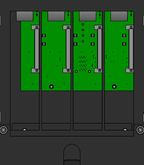
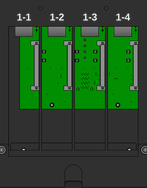
feat(disks): new X4 chassis art with baked-in bay labels
Replace the X4 chassis image with updated artwork showing the drive
backplanes. Scaled to 147x188 so each bay opening is exactly 30x118 --
the size of the shared disk sprites -- keeping everything 1:1 so the
drive art is never interpolated.

Bay labels are baked into the artwork rather than drawn at runtime,
matching HL4/HL8/HL15 and the rest of the plugin. Removes the p5.text
block and its geometry constants.

diff --git a/45drives-disks/src/components/P5HomeLabX4.vue b/45drives-disks/src/components/P5HomeLabX4.vue
@@ -92,26 +92,14 @@
     },
     loadingFlag: true,
   };
- 
-  // Chassis art is 144x165 so that one drive bay is exactly the width of the
-  // shared 30x120 caddy sprites, matching every other chassis sketch. Disks are
-  // drawn 1:1 and the canvas is displayed 1:1, so nothing is ever interpolated.
-  // Raising DISPLAY_SCALE makes the unit bigger but the browser then upscales
-  // the caddy sprites, which makes the drives look blurry.
+
   const DISPLAY_SCALE = 1;
 
-  // Bay label geometry. Labels sit in the strip above the bay opening so they
-  // never overlap the drive art. BAY_LABEL_GAP is the clear space kept between
-  // the bottom of the text and the top of the drive.
-  const BAY_WIDTH = 30;
-  const BAY_LABEL_SIZE = 7.5;
-  const BAY_LABEL_GAP = 1;
-
-  const diskLocations = [    // Chassis image is 144x165, bays measured from x4-homelab.png
-    { x: 10, y: 11, BAY: "1-1", HDD: true, occupied: false, image: null },
-    { x: 42, y: 11, BAY: "1-2", HDD: true, occupied: false, image: null },
-    { x: 73, y: 11, BAY: "1-3", HDD: true, occupied: false, image: null },
-    { x: 105, y: 11, BAY: "1-4", HDD: true, occupied: false, image: null },
+  const diskLocations = [    // Chassis image is 147x188, bays measured from x4-homelab.png
+    { x: 9, y: 25, BAY: "1-1", HDD: true, occupied: false, image: null },
+    { x: 42, y: 25, BAY: "1-2", HDD: true, occupied: false, image: null },
+    { x: 75, y: 25, BAY: "1-3", HDD: true, occupied: false, image: null },
+    { x: 108, y: 25, BAY: "1-4", HDD: true, occupied: false, image: null },
   ];
 
   
@@ -297,26 +285,6 @@
               );
             }
           }
-
-          // Bay labels ("1-1".."1-4") drawn in the strip above each bay so they
-          // never sit on top of the drive art. The selected bay is highlighted
-          // to match the selection outline.
-          p5.push();
-          p5.textAlign(p5.CENTER, p5.BOTTOM);
-          p5.textSize(BAY_LABEL_SIZE);
-          p5.textStyle(p5.BOLD);
-          p5.noStroke();
-          diskLocations.forEach((loc) => {
-            const cx = loc.x + BAY_WIDTH / 2;
-            const by = loc.y - BAY_LABEL_GAP;
-            if (loc.BAY === currentDisk.value) {
-              p5.fill(206, 242, 212);
-            } else {
-              p5.fill(235);
-            }
-            p5.text(loc.BAY, cx, by);
-          });
-          p5.pop();
         };
   
         p5.mouseClicked = (_) => {
